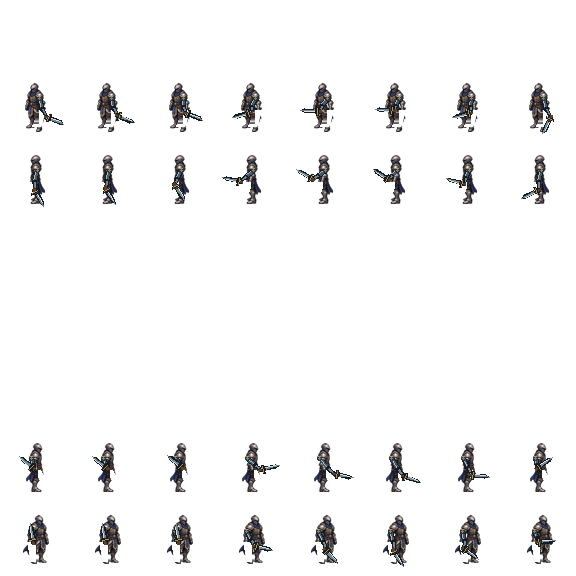
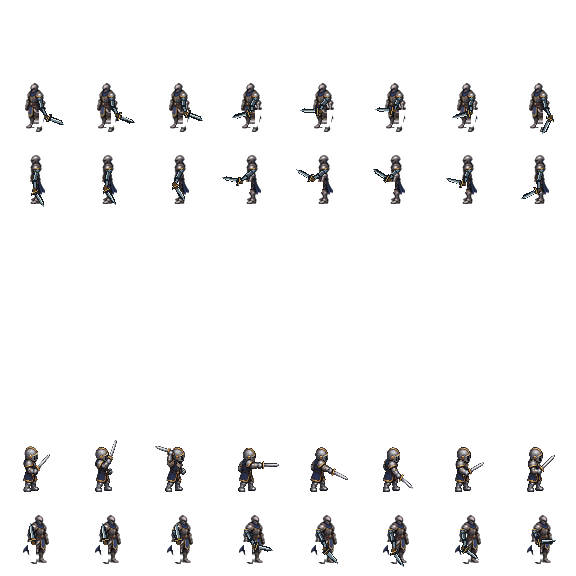
Animate east-facing opening sword cut from knight turnaround reference

diff --git a/tools/generate-knight-side-053.py b/tools/generate-knight-side-053.py
@@ -264,6 +264,9 @@ def generate():
     elif clip=='death':im=death_pose(row,f)
     else:im=sword_arm(row,clip,f)
     sheet.alpha_composite(im,(f*C,row*C))
+  if clip=='attack1':
+   with Image.open(ROOT/'attack1-east.png') as east:
+    sheet.paste(east,(0,6*C))
   sheet.save(ROOT/(clip+'-side.png'),optimize=True)
   print(clip,frames,ROOT/(clip+'-side.png'),(ROOT/(clip+'-side.png')).stat().st_size)
  # Contact sheet for visual review in runtime cell resolution, no cosmetics.
